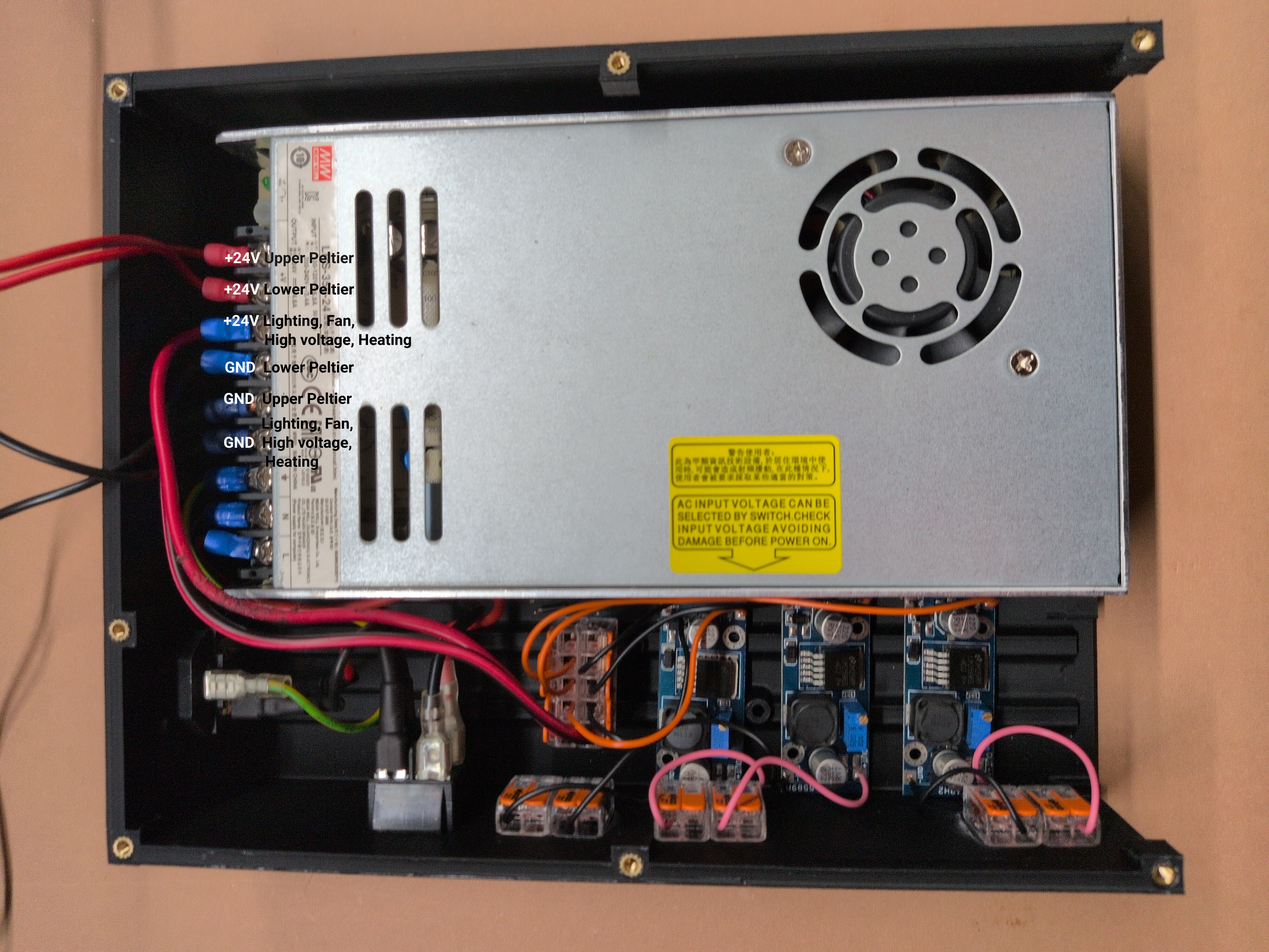
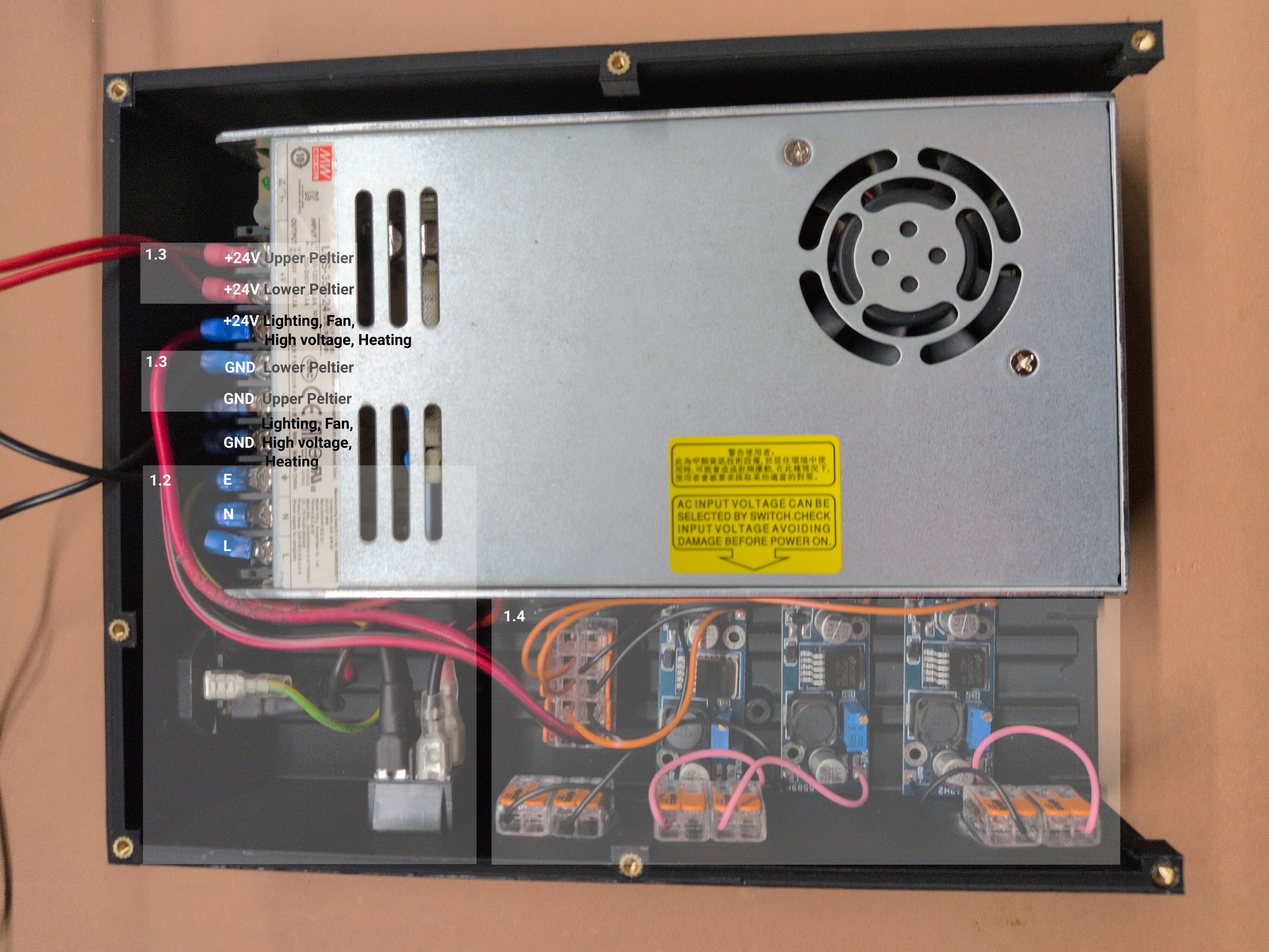
Add light images and update readme

Changed region(s): [[0.0938, 0.465, 0.9062, 0.93], [0.0938, 0.248, 0.2812, 0.434]]

diff --git a/README.md b/README.md
@@ -164,11 +164,15 @@ __WARNING:__ You have to connect the system to mains and switch it on for this s
 | Set 3V, 5V or 12V for the LED lighting<br> (For the LED lights linked in the parts list above, please use 3V. The picture was taking before that was installed) | <img src="images/assembly/2c_measure.jpg" width="500"> |
 
 ## 3. Case Cover - Under Side
-- Solder cables to the low power switches
-- Insert switches and voltage meter in the cover
 - Glue in 7 WAGO-2x connectors
-- Connect switches with WAGO connectors
-- Insert power cables and voltage meter cables through cover
+- Solder 2x AWG16 cables to the 2 Peltier power switches
+- Solder 2x AWG10 cables to the Light and Heating switches
+- Plug switches in their holes in the cover
+- Feed the AWG16 wires from one connection of the Peltier switches through the holes to the high power voltage adapter
+- Connect the AWG16 cables from the other Peltier switch connection to the Lower and Upper Peltier WAGO connector (make sure to not mix them up)
+- Connect the AWG10 wires of one connection of the Light and Heating switches to the corresponding WAGO connectors
+- Leave the 2 AWG10 wires from the other connection of the Light and Heating switches hanging lose (they'll be connected to the case base later)
+- Insert mini voltage meters in the holes in the cover and also feed the wires through the holes to the high power voltage adapter
 <img src="images/assembly/3a_cover_underside_annotated.jpg" width="800"> 
 
 ## 4. Case Cover - Upper Side
@@ -176,7 +180,7 @@ __WARNING:__ You have to connect the system to mains and switch it on for this s
 | Instruction | Image |
 |-------------|-------|
 | - Rotate cover and make sure power and voltage meter cables are available | <img src="images/assembly/4a_cover_upperside.jpg" width="400"> |
-| - Screw in high power voltage converters using 3x12mm screws<br> - Screw in cables into the out connectors of the voltage converters | <img src="images/assembly/4b_cover_upperside.jpg" width="400"> |
+| - Screw in high power voltage converters using 3x12mm screws<br> - Screw in the AWG16 cables and the cables from the voltage meters into the out connectors of the voltage converters (take care of correct polarity) | <img src="images/assembly/4b_cover_upperside.jpg" width="400"> |
 
 ## 5. Assemble Cooling Tower
 
@@ -212,7 +216,11 @@ __Note:__ Usual the side with the printing is the cooling side of the Peltier el
 
 ## 7. Add lights
 
-TBD
+| Instruction | Image |
+|-------------|-------|
+|  | <img src="images/assembly/7a_light.jpg" width="400"> |
+|  | <img src="images/assembly/7b_light.jpg" width="400"> |
+|  | <img src="images/assembly/7c_light.jpg" width="400"> |
 
 ## 8. Attach Cooling Tower
 
